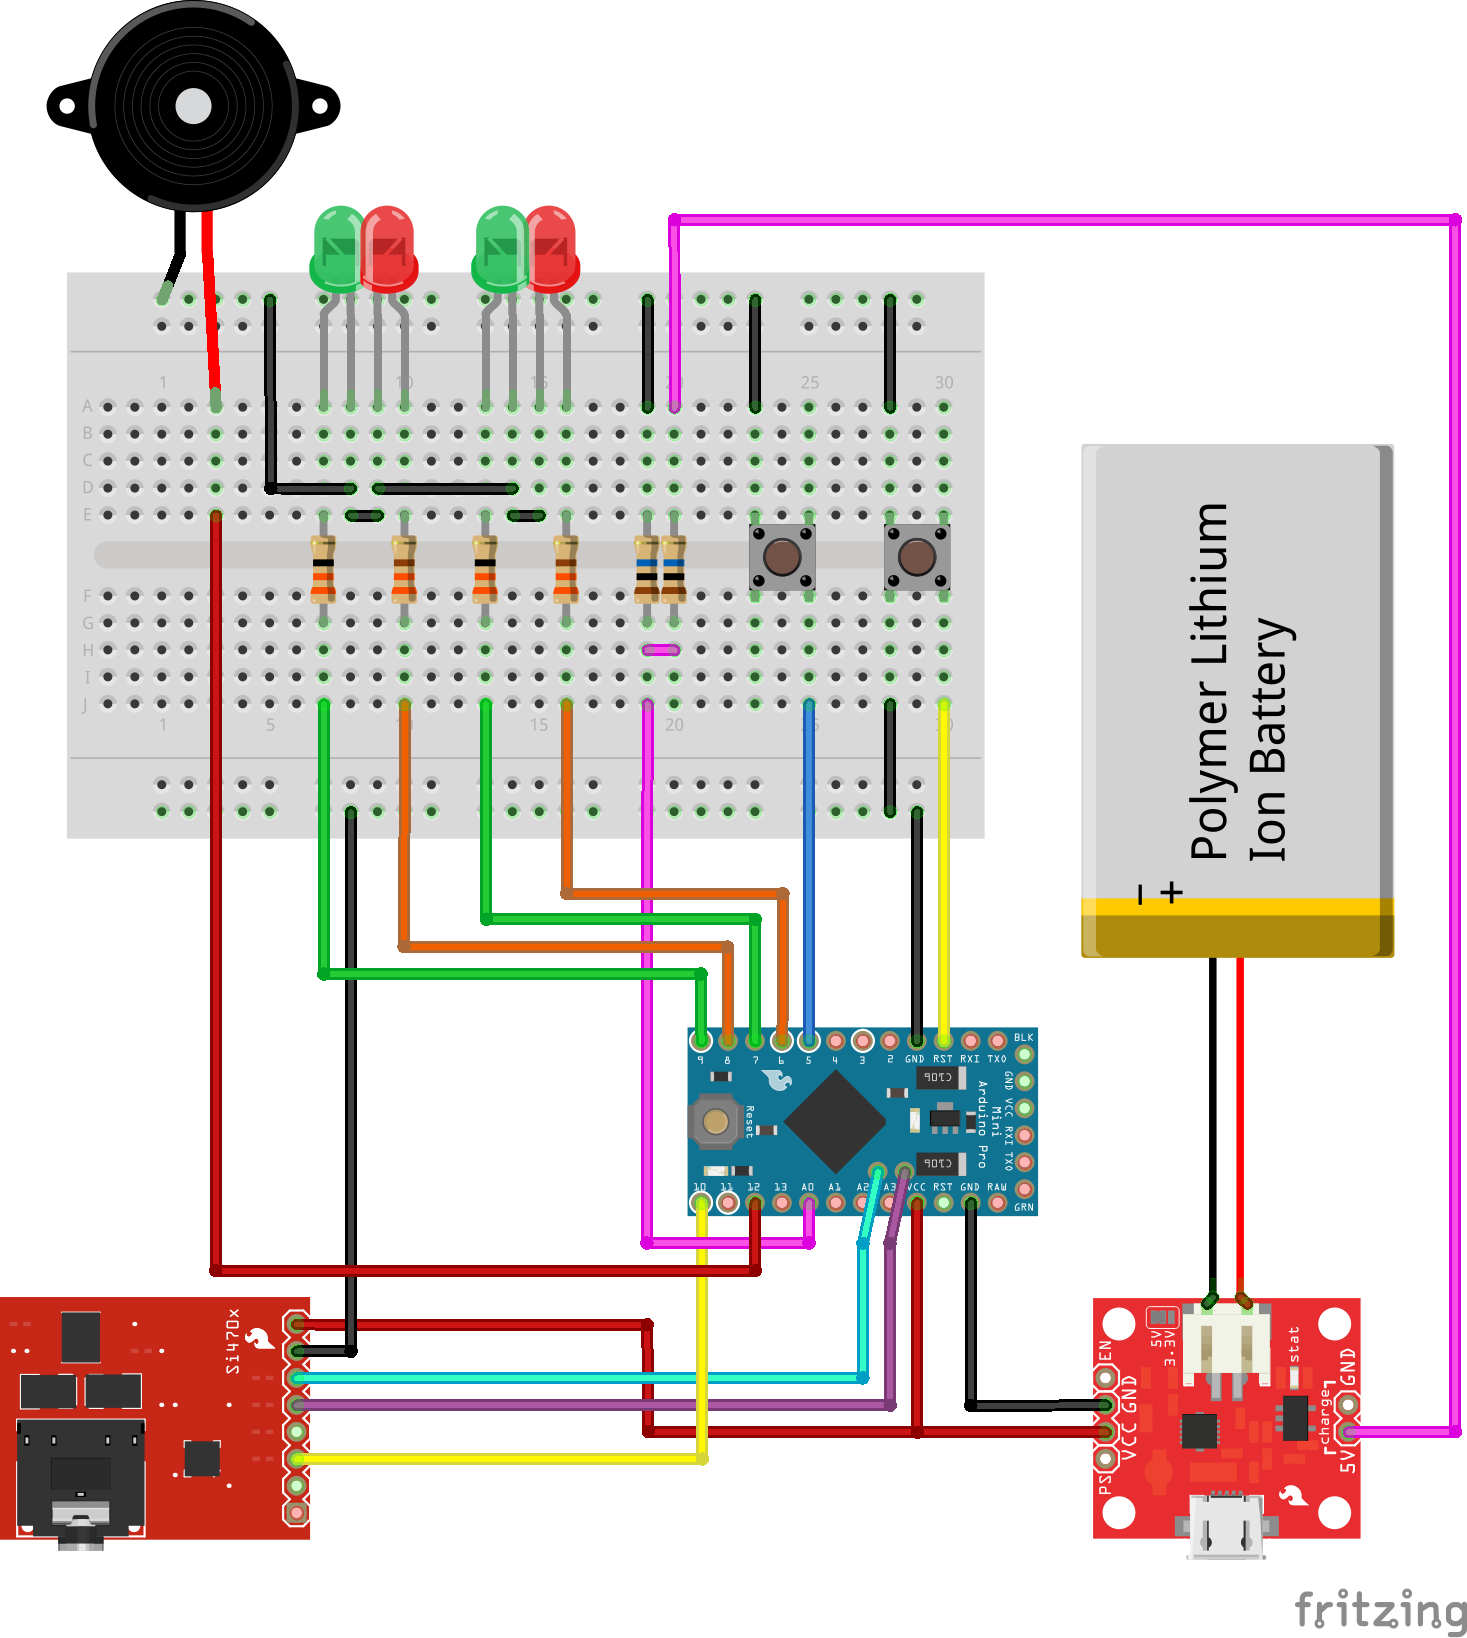
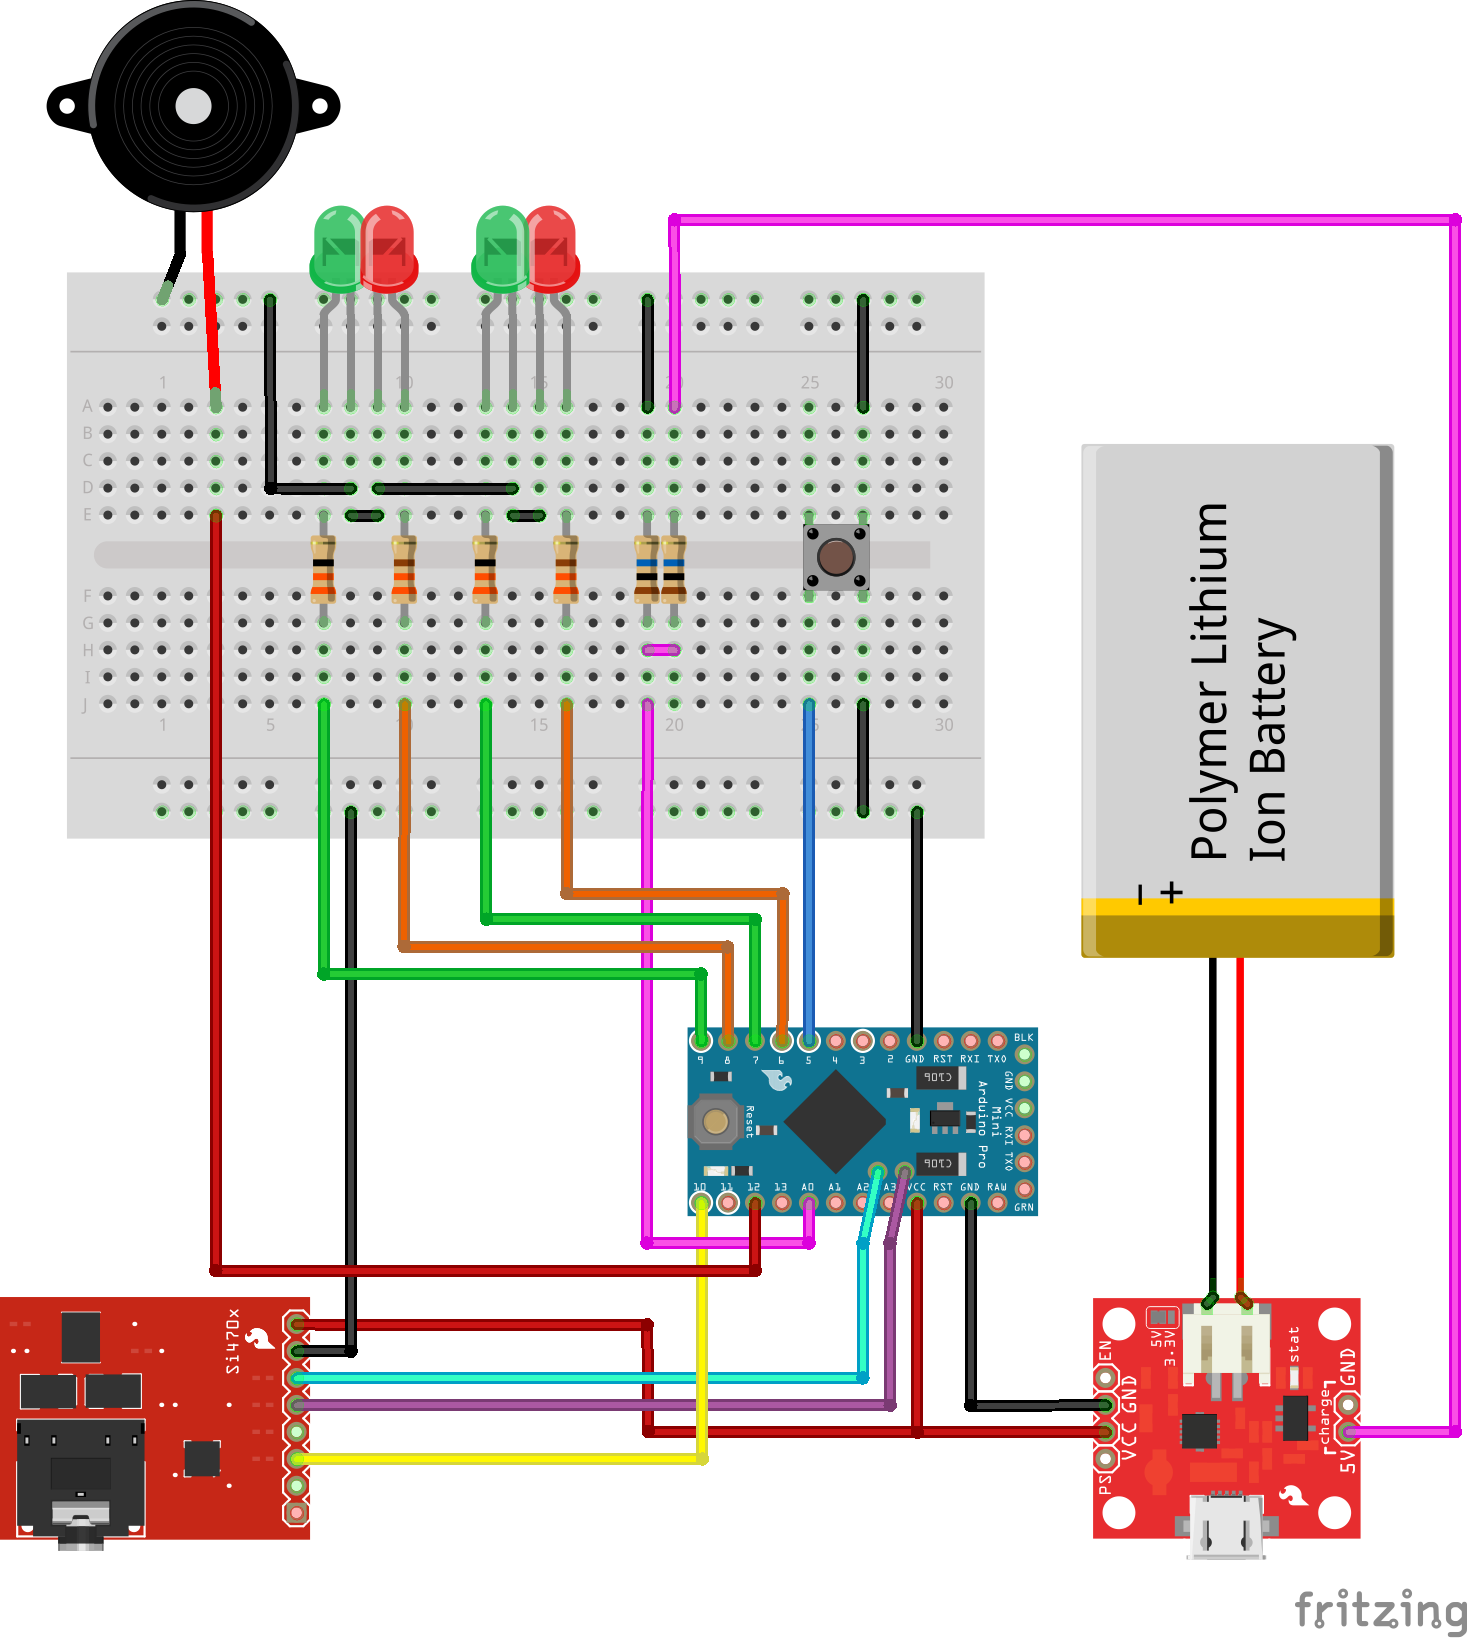
eliminamos boton de reset, documentamos led de señal apagado (sintonizando canal)

Changed region(s): [[0.4908, 0.1557, 0.6748, 0.6227]]

diff --git a/README.md b/README.md
@@ -53,6 +53,7 @@ En resumen, los leds indican:
 Led|Color|Significado
 ---|-----|-----------
 Energía y Señal|Intermitente Rojo|Alerta sísmica
+Señal|Apagado|Sintonizando canal
 Señal|Intermitente Verde|Canal sintonizado, esperando prueba periódica
 Señal|Verde|Canal sintonizado y prueba periódica vigente
 Señal|Rojo|No hay canal sintonizado
@@ -94,7 +95,7 @@ Cantidad | Descripción
 1 | [Si4707 Weather Band Receiver Breakout](https://www.sparkfun.com/products/11129)
 1 | Batería Li-Ion 3.7 V 800 mAh
 1 | Zumbador
-2 | Botón pulsador normalmente abierto
+1 | Botón pulsador normalmente abierto
 2 | Led Bicolor
 2 | Resistencia 33 ohm
 2 | Resistencia 330 ohm
